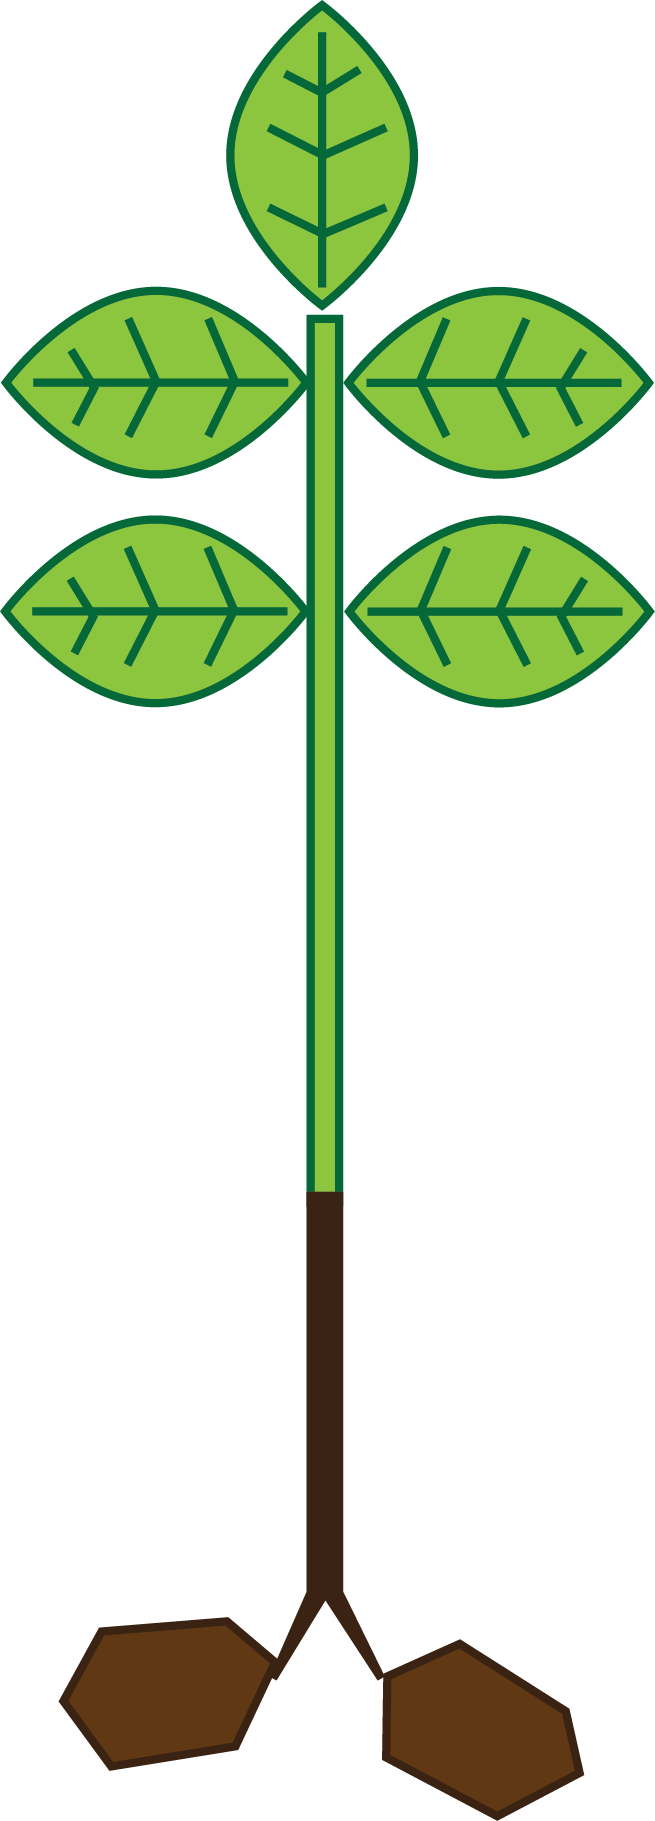
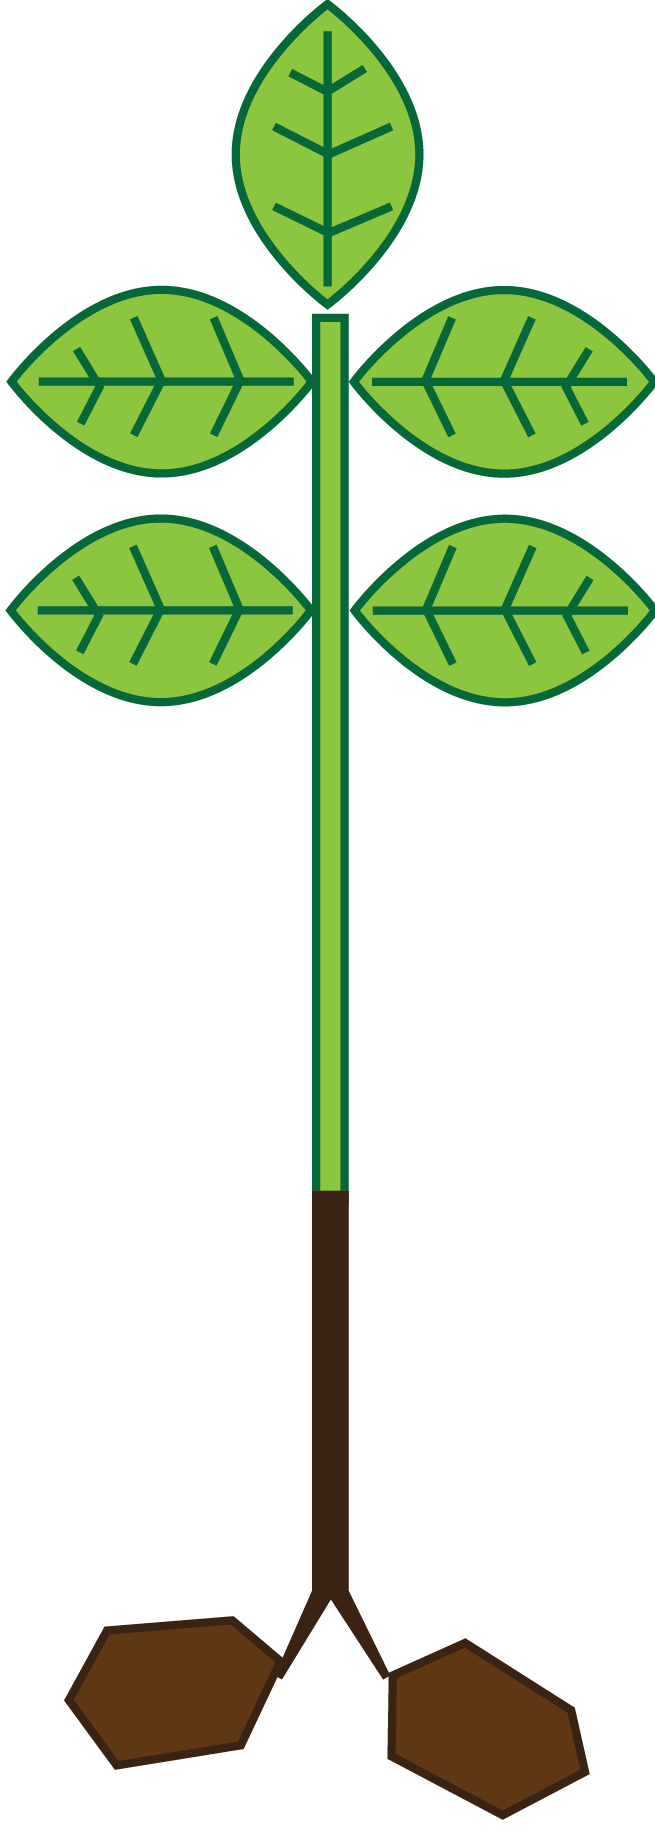
Add potato

Changed region(s): [[0.0, 0.0, 1.0, 1.0], [0.1527, 0.8611, 0.458, 0.9226], [0.0916, 0.9226, 0.3664, 0.9841]]

diff --git a/GameCanvas.qml b/GameCanvas.qml
@@ -98,7 +98,6 @@ Item {
         x: parent.width/2
         z: 1
         anchors.bottom: ground.top
-        anchors.bottomMargin: -20
         fillMode: Image.PreserveAspectFit
         height: window.height/4
         Behavior on x { NumberAnimation {} }
@@ -109,7 +108,7 @@ Item {
 
     Rectangle {
         id: ground
-        height: 80
+        height: 110
         opacity: 0.9
         anchors.bottom: parent.bottom
         width: parent.width
@@ -156,6 +155,33 @@ Item {
     //        }
     //        height: gameCanvas.height
     //    }
+
+    Row {
+        anchors.bottom: ground.top
+        anchors.bottomMargin: -100
+        z: 10
+        Image {
+            width: 100
+            fillMode: Image.PreserveAspectFit
+            source: "qrc:///images/potatoplant_0.png"
+        }
+        Image {
+            width: 100
+            fillMode: Image.PreserveAspectFit
+            source: "qrc:///images/potatoplant_1.png"
+        }
+
+        Image {
+            width: 100
+            fillMode: Image.PreserveAspectFit
+            source: "qrc:///images/potatoplant_2.png"
+        }
+        Image {
+            width: 100
+            fillMode: Image.PreserveAspectFit
+            source: "qrc:///images/potatoplant_3.png"
+        }
+    }
 
 
 

diff --git a/main.qml b/main.qml
@@ -41,17 +41,20 @@ Window {
     Splash {
         id: splash
         z: 1
+        text: "Team Rocket Science"
         anchors.fill: parent
+        opacity: 0
     }
 
     Splash {
         id: gameWon
         z: 1
         opacity: 0
-        text: "VICTOLEE"
+        //text: "VICTOLEE"
         anchors.fill: parent
         imageSource: "qrc:///images/VictoryMeme.png"
     }
+
 
     MessageText { id: messageText }
 

diff --git a/Splash.qml b/Splash.qml
@@ -36,7 +36,7 @@ Rectangle {
             font.pixelSize: 30
             color: "white"
             anchors.horizontalCenter: parent.horizontalCenter
-            text: "Team Rocket Science"
+            text: ""
         }
         Image {
             id: image
